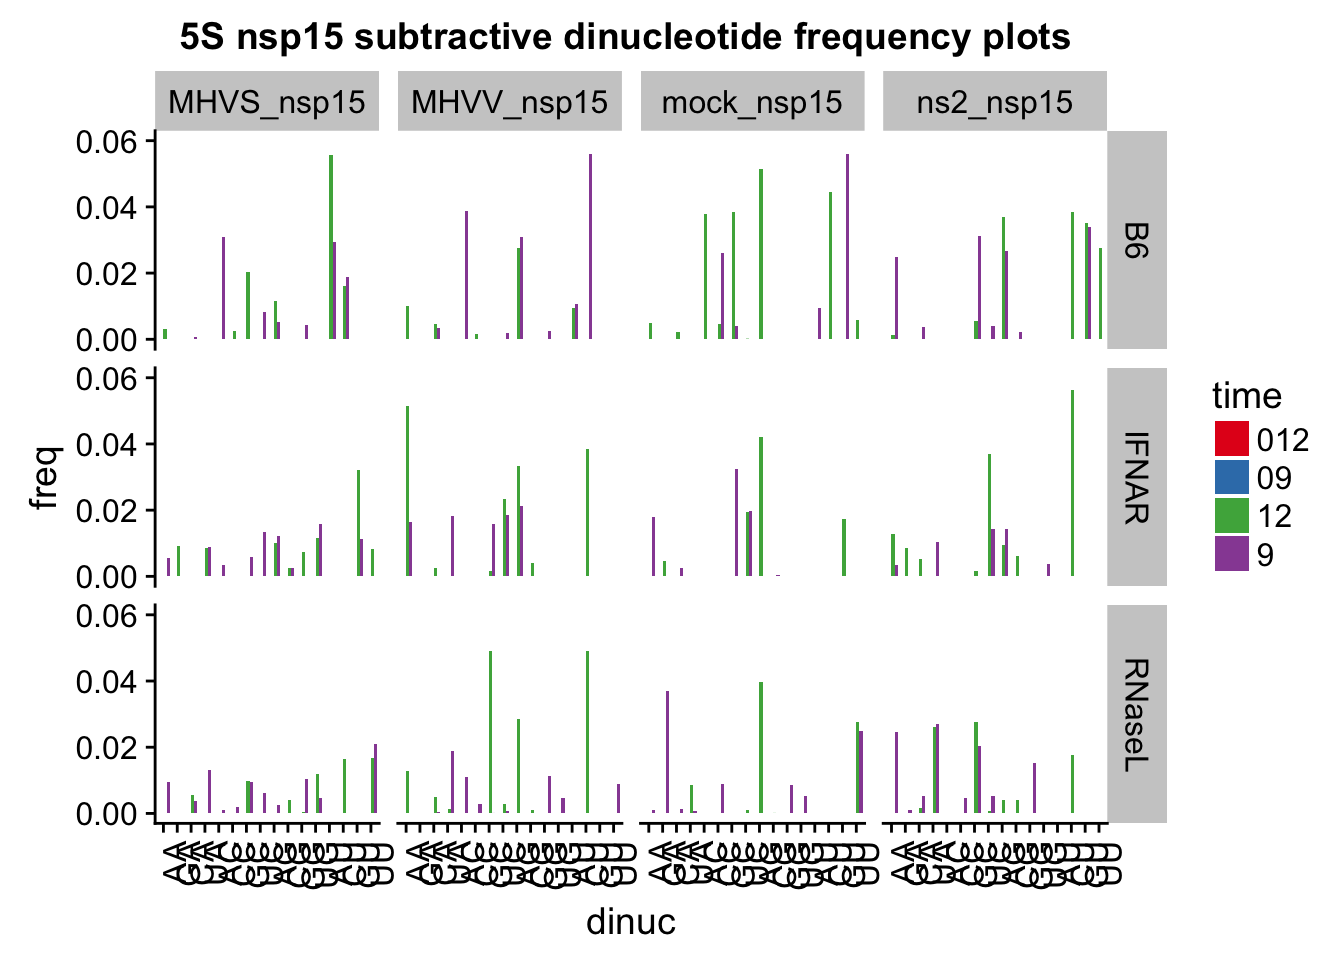
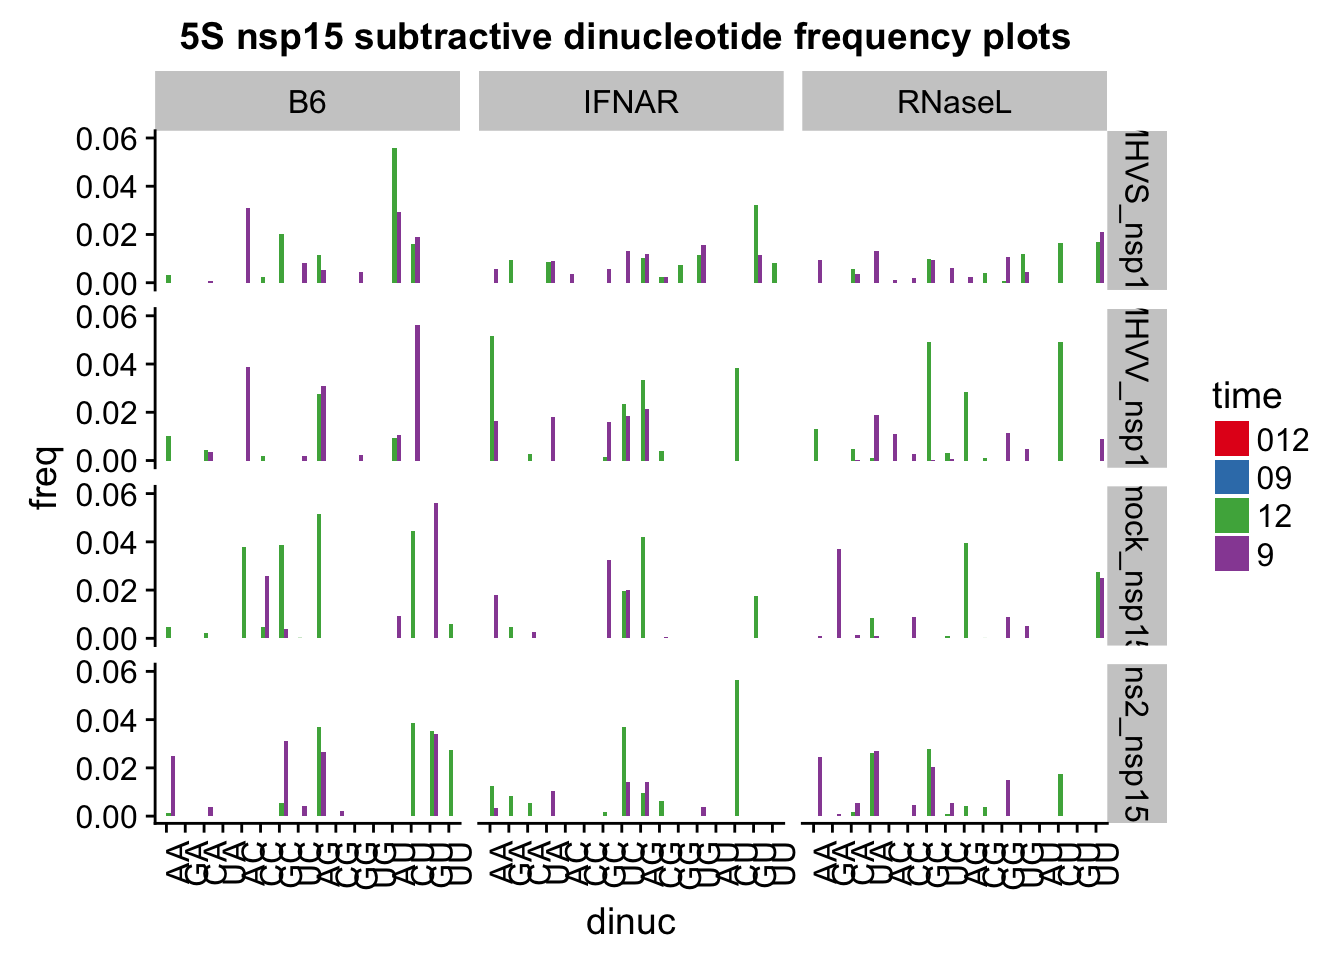
fixing rRNA dinuc graphs

diff --git a/rRNA_endoU_analysis.html b/rRNA_endoU_analysis.html
@@ -357,8 +357,8 @@ library(DT)</code></pre>
 <p>These plots display coverage across the entire 18S, 28S, and 5s rRNA sequence. Counts are normalized by library size.</p>
 <pre class="r"><code>sample_info_table &lt;- read_tsv(&quot;sample_info.txt&quot;, col_names = c(&quot;cell type&quot;, &quot;virus type&quot;, &quot;time&quot;))
 datatable(sample_info_table)</code></pre>
-<div id="htmlwidget-90fdc9ab07b199d83ef3" style="width:100%;height:auto;" class="datatables html-widget"></div>
-<script type="application/json" data-for="htmlwidget-90fdc9ab07b199d83ef3">{"x":{"filter":"none","data":[["1","2","3","4","5","6","7","8","9","10","11","12","13","14","15","16","17","18","19","20","21","22","23","24","25","26","27","28","29","30","31","32","33","34","35","36"],["B6","B6","B6","B6","B6","IFNAR","IFNAR","IFNAR","IFNAR","IFNAR","RnaseL","RnaseL","RnaseL","RnaseL","RnaseL","B6","B6","B6","B6","B6","IFNAR","IFNAR","IFNAR","IFNAR","IFNAR","RnaseL","RnaseL","RnaseL","RnaseL","RnaseL","B6","IFNAR","RNaseL","B6","IFNAR","RNaseL"],["Mock","MHV wt Volker","MHV wt susan","NS2susan mut 3","nsp15HA Eveline P1","Mock","MHV wt Volker","MHV wt susan","NS2susan mut 3","nsp15HA Eveline P1","Mock","MHV wt Volker","MHV wt susan","NS2susan mut 3","nsp15HA Eveline P1","Mock","MHV wt Volker","MHV wt susan","NS2susan mut 3","nsp15HA Eveline P1","Mock","MHV wt Volker","MHV wt susan","NS2susan mut 3","nsp15HA Eveline P1","Mock","MHV wt Volker","MHV wt susan","NS2susan mut 3","nsp15HA Eveline P1","mock","mock","mock","mock","mock","mock"],["12","12","12","12","12","12","12","12","12","12","12","12","12","12","12","9","9","9","9","9","9","9","9","9","9","9","9","9","9","9","0/12","0/12","0/12","0/9","0/9","0/9"]],"container":"<table class=\"display\">\n  <thead>\n    <tr>\n      <th> <\/th>\n      <th>cell type<\/th>\n      <th>virus type<\/th>\n      <th>time<\/th>\n    <\/tr>\n  <\/thead>\n<\/table>","options":{"order":[],"autoWidth":false,"orderClasses":false,"columnDefs":[{"orderable":false,"targets":0}]}},"evals":[],"jsHooks":[]}</script>
+<div id="htmlwidget-40e7a16e1966cfd87220" style="width:100%;height:auto;" class="datatables html-widget"></div>
+<script type="application/json" data-for="htmlwidget-40e7a16e1966cfd87220">{"x":{"filter":"none","data":[["1","2","3","4","5","6","7","8","9","10","11","12","13","14","15","16","17","18","19","20","21","22","23","24","25","26","27","28","29","30","31","32","33","34","35","36"],["B6","B6","B6","B6","B6","IFNAR","IFNAR","IFNAR","IFNAR","IFNAR","RnaseL","RnaseL","RnaseL","RnaseL","RnaseL","B6","B6","B6","B6","B6","IFNAR","IFNAR","IFNAR","IFNAR","IFNAR","RnaseL","RnaseL","RnaseL","RnaseL","RnaseL","B6","IFNAR","RNaseL","B6","IFNAR","RNaseL"],["Mock","MHV wt Volker","MHV wt susan","NS2susan mut 3","nsp15HA Eveline P1","Mock","MHV wt Volker","MHV wt susan","NS2susan mut 3","nsp15HA Eveline P1","Mock","MHV wt Volker","MHV wt susan","NS2susan mut 3","nsp15HA Eveline P1","Mock","MHV wt Volker","MHV wt susan","NS2susan mut 3","nsp15HA Eveline P1","Mock","MHV wt Volker","MHV wt susan","NS2susan mut 3","nsp15HA Eveline P1","Mock","MHV wt Volker","MHV wt susan","NS2susan mut 3","nsp15HA Eveline P1","mock","mock","mock","mock","mock","mock"],["12","12","12","12","12","12","12","12","12","12","12","12","12","12","12","9","9","9","9","9","9","9","9","9","9","9","9","9","9","9","0/12","0/12","0/12","0/9","0/9","0/9"]],"container":"<table class=\"display\">\n  <thead>\n    <tr>\n      <th> <\/th>\n      <th>cell type<\/th>\n      <th>virus type<\/th>\n      <th>time<\/th>\n    <\/tr>\n  <\/thead>\n<\/table>","options":{"order":[],"autoWidth":false,"orderClasses":false,"columnDefs":[{"orderable":false,"targets":0}]}},"evals":[],"jsHooks":[]}</script>
 <pre class="r"><code>#18S rRNA coverage plots
 
 data_dir_18S = &quot;~/Dropbox (Hesselberth Lab)/Rachel_data/EndoU_project/rRNA_bg/mm18S/neg/&quot;
@@ -1027,7 +1027,7 @@ endoU_sub5S_freq_plot &lt;- endoU_subtractive_5S %&gt;%
   geom_bar(aes(fill = time), stat = &quot;identity&quot;, position = &#39;dodge&#39;) + 
   theme_cowplot() + 
   scale_y_continuous(limits = c(0.0, 0.06)) +
-  facet_grid(cell ~ virus) + 
+  facet_grid(virus ~ cell) + 
   theme(axis.text.x = element_text(angle = 90, hjust = 1)) +
   ggtitle(&quot;5S nsp15 subtractive dinucleotide frequency plots &quot;) 
 endoU_sub5S_freq_plot</code></pre>
